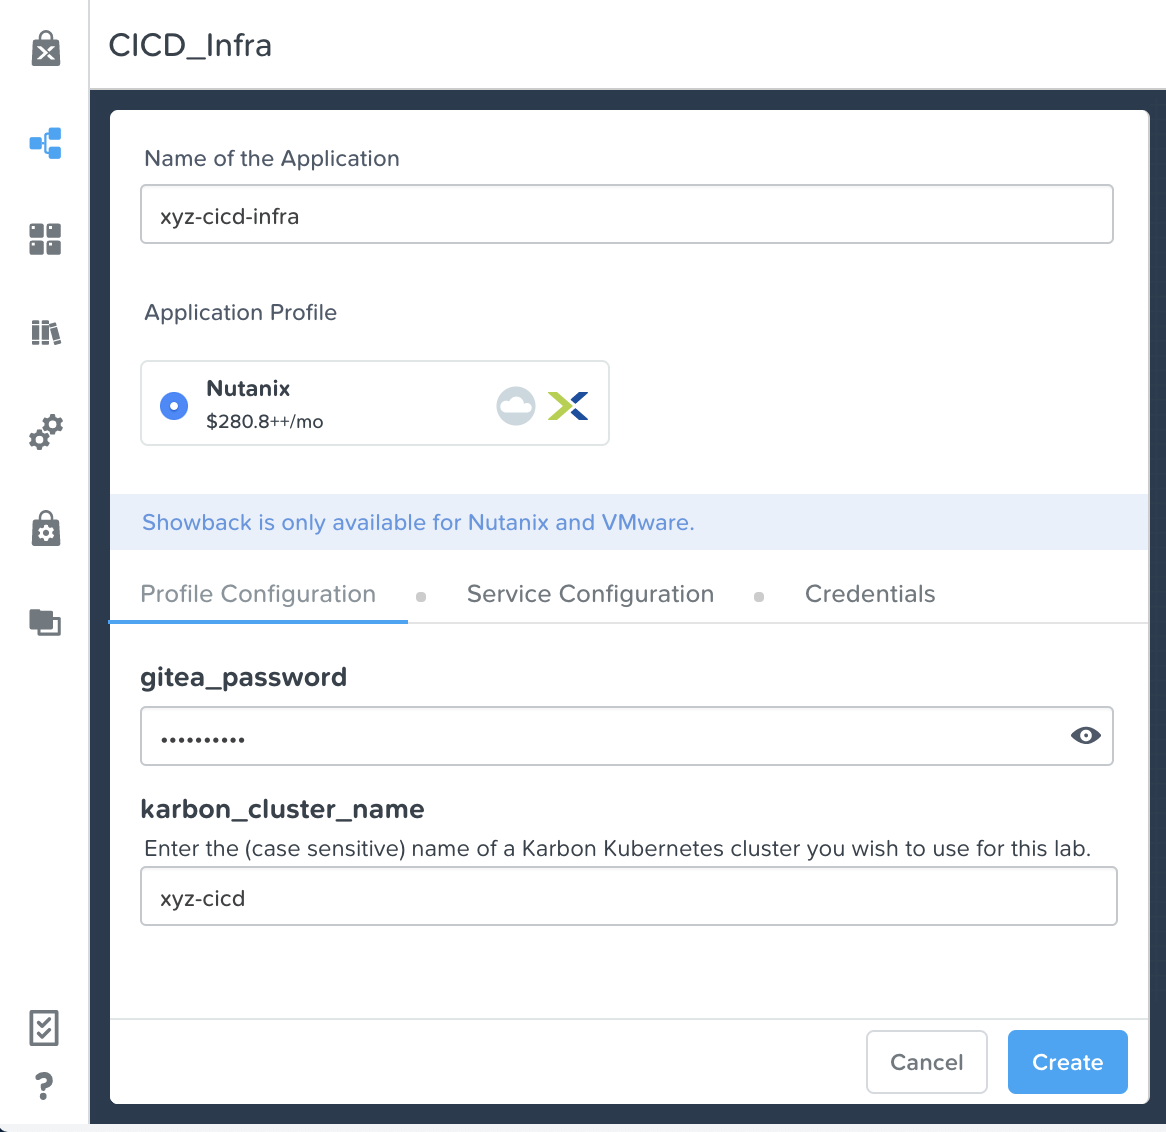
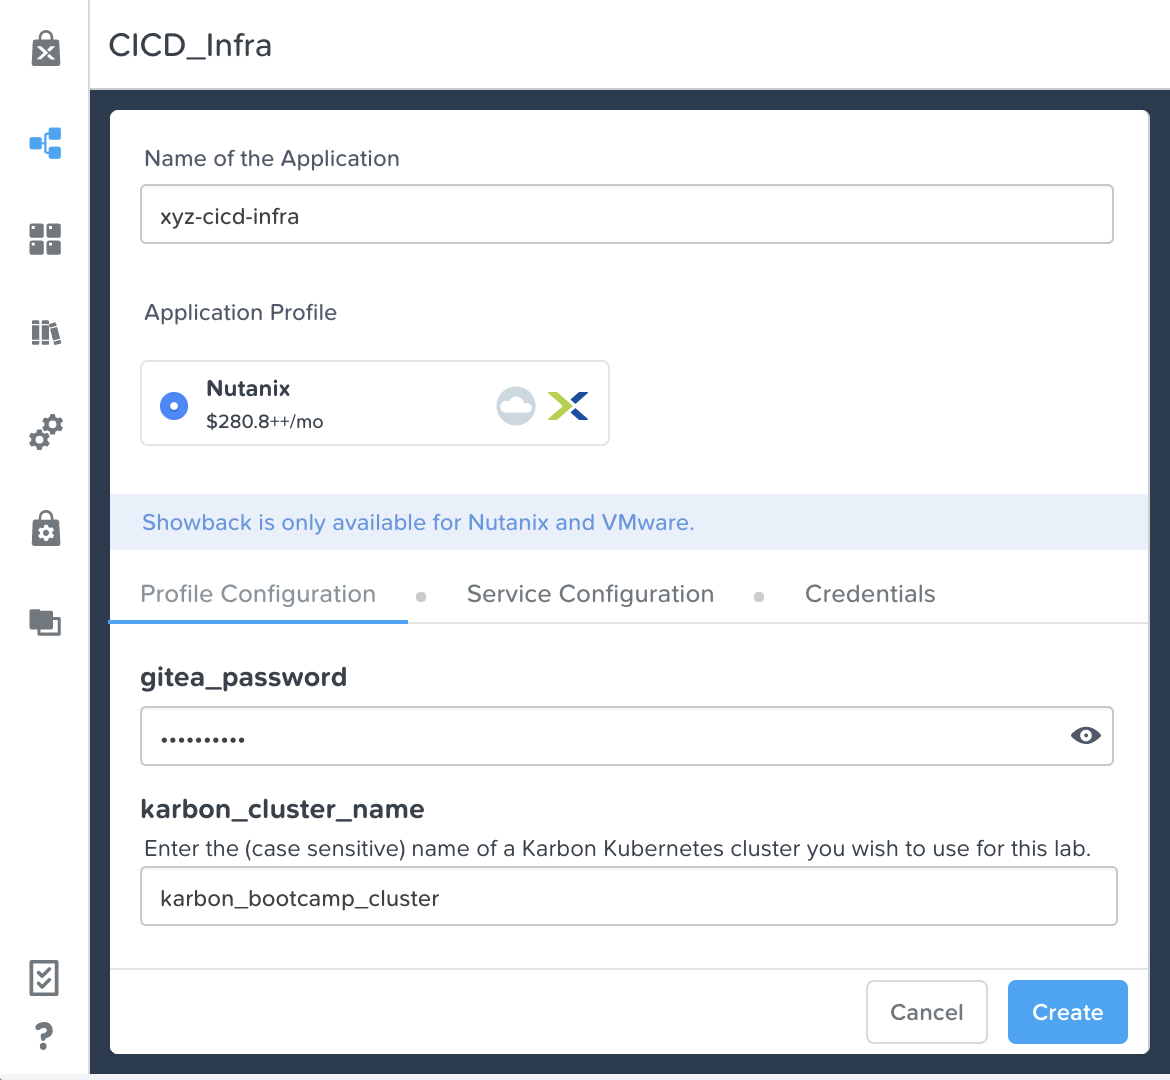
Moved wording and image to pre-staged Karbon cluster

diff --git a/calm_karbon_cicd/calm_karbon_cicd.rst b/calm_karbon_cicd/calm_karbon_cicd.rst
@@ -26,7 +26,7 @@ Pre-requisites
 
 This lab requires:
 
-- a **running Nutanix Karbon Kubernetes cluster**.  When the Calm blueprint is launched in the next step, a runtime variable will prompt you for the Karbon Kubernetes cluster name.  If you do not have a cluster already deployed, please go do that and then return to this lab.
+- a **running Nutanix Karbon Kubernetes cluster**.  When the Calm blueprint is launched in the next step, a runtime variable will prompt you for the Karbon Kubernetes cluster name.  If this bootcamp environment was staged, then use the default value of **karbon_bootcamp_cluster**.  Otherwise, please specify the name of an *existing* Karbon Kubernetes cluster.
 - a **DockerHub account**.  If you do not already have one, go ahead and sign up for an account_ (it's free).
 
 .. _account: https://hub.docker.com/
@@ -56,7 +56,7 @@ Building a CI/CD pipeline generally involves connecting a large number of dispar
 
    - **Name of the Application** - *initials*-cicd-infra
    - **gitea_password** - Any password desired, which will be set as the Gitea admin user password
-   - **karbon_cluster_name** - The name of the Karbon cluster to use for this lab (it **must** already be depoyed)
+   - **karbon_cluster_name** - The name of the Karbon cluster to use for this lab (it **must** already be depoyed).  If the cluster was staged, leave the default of **karbon_bootcamp_cluster**.
 
    .. figure:: images/03_bp_launch_2.png
        :align: center
